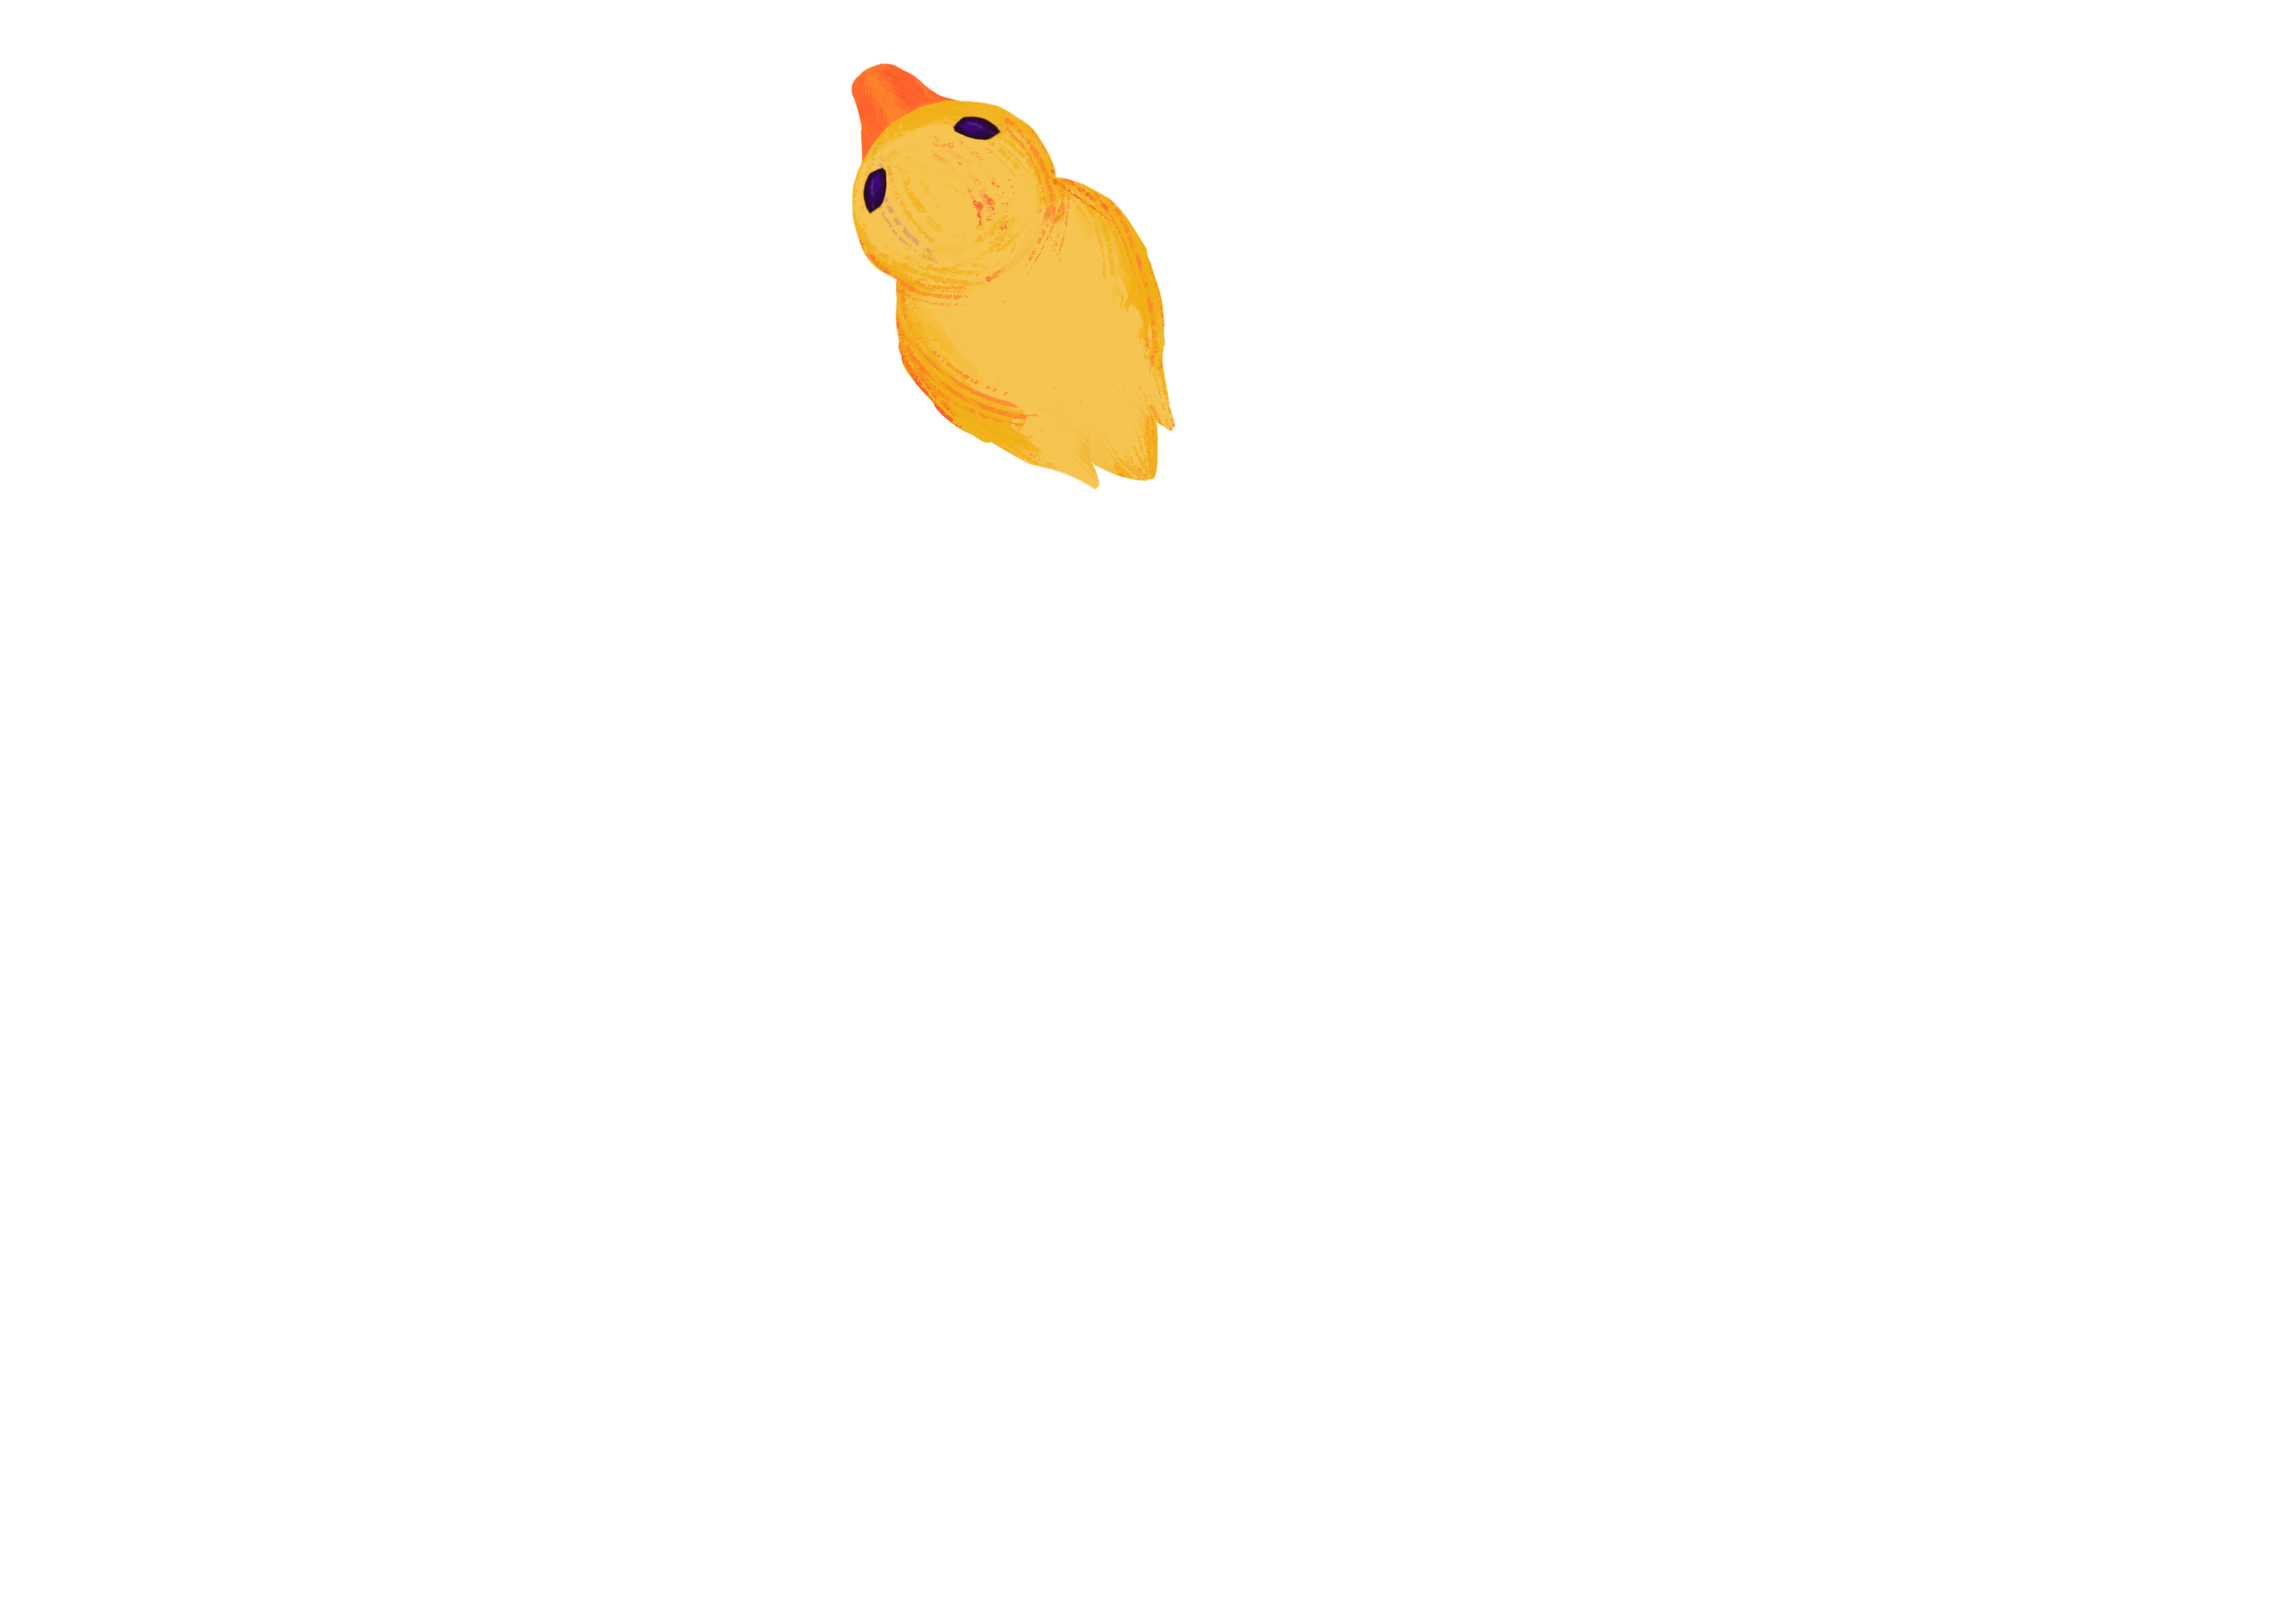
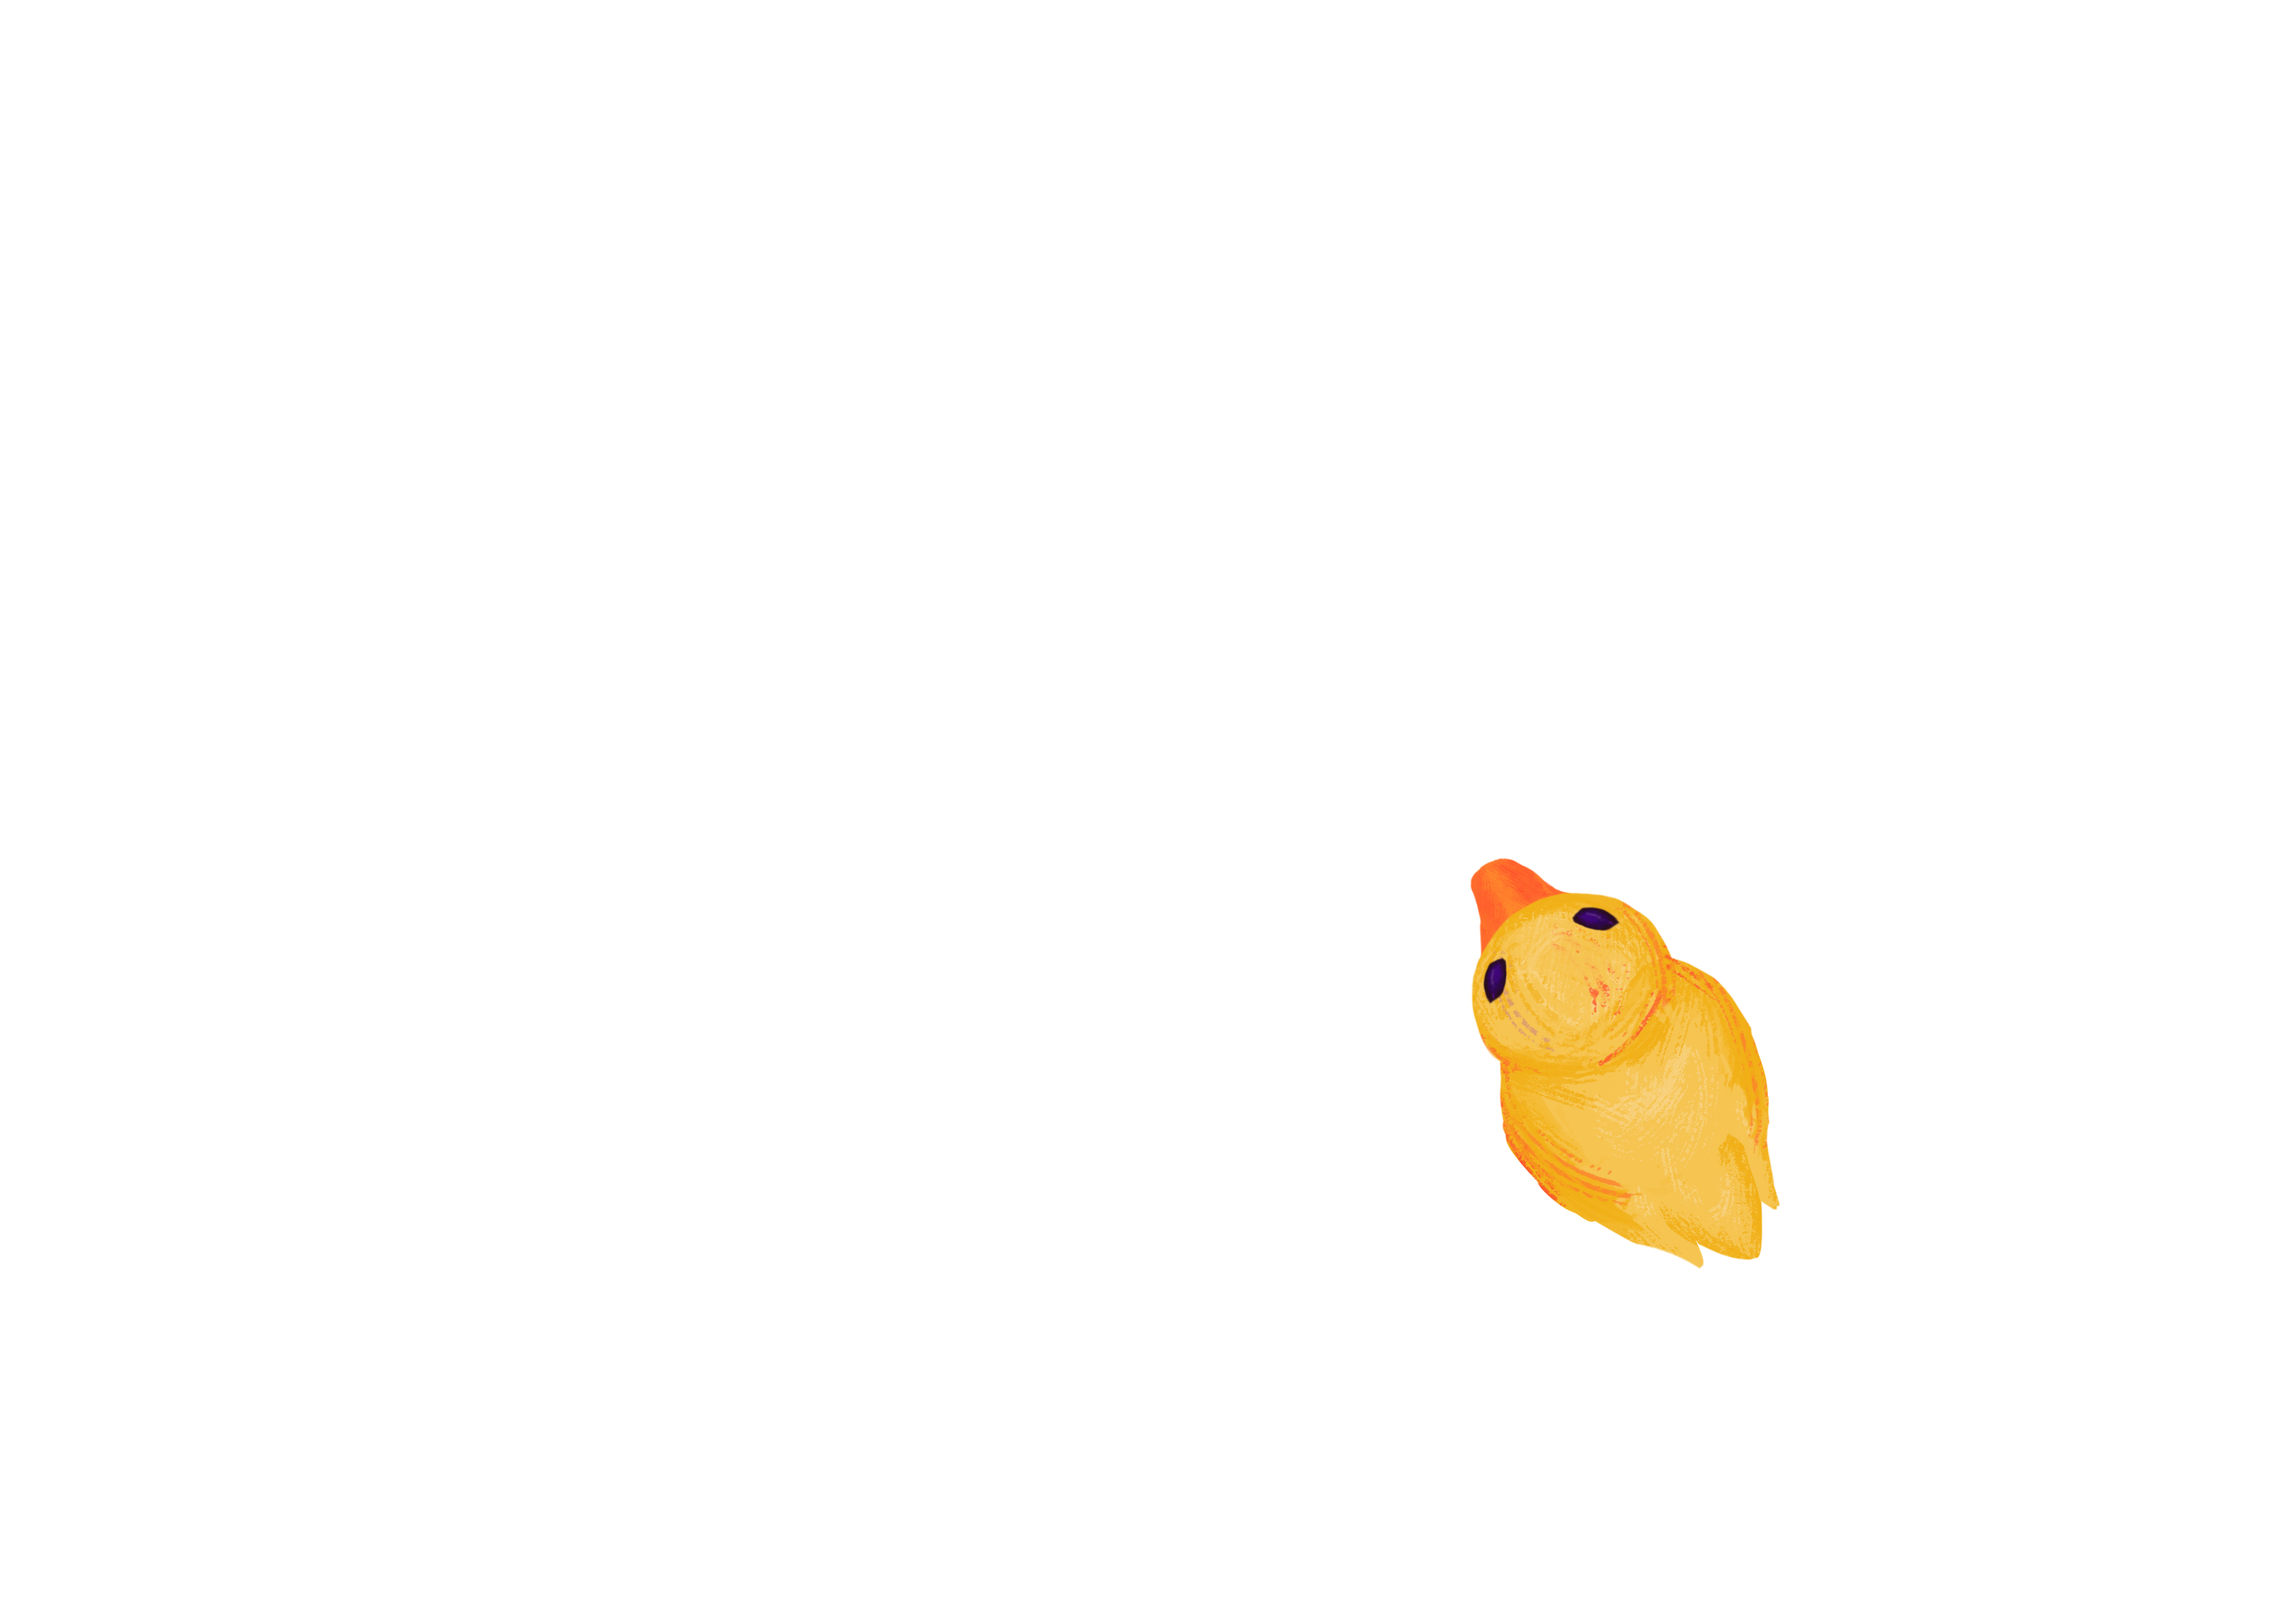
Integrate the artist's second art batch as a trial
Replace the blocker, +1, duck and car art, add portal pair 2, turn
switches into symbol buttons (heart, circle, star) with a pressed state,
and draw doors as jack-in-the-box. The asset build now centres objects
on their opaque body and drops stray low-alpha pixels. Kept on its own
branch until the look is play-checked.

Claude-Session: https://claude.ai/code/session_016ABh34yHWJyezQkcFHKvZi

Changed region(s): [[0.3737, 0.031, 0.5294, 0.3102], [0.6228, 0.5273, 0.7785, 0.7754]]

diff --git a/apps/web/src/game/renderer/tileArt.ts b/apps/web/src/game/renderer/tileArt.ts
@@ -37,7 +37,10 @@ const OBJECT_TEXTURES: Partial<Record<TileType, string>> = {
   door: 'obj_door',
 };
 const PASSAGE_WALL_TEXTURE = 'obj_passage_wall';
-/** Editor colours 1-3 map to the art's a (blue), b (pink), and c (green). */
+/**
+ * Editor colours 1-3 map to the art's a, b, and c. Since the second art batch (2026-11-07) the
+ * pieces are told apart by symbol, not colour: a heart, b circle, c star (switches and doors).
+ */
 const COLOR_SUFFIXES = ['a', 'b', 'c'];
 const SWITCH_BUTTON_LABEL = 'Switch Button';
 
@@ -53,14 +56,21 @@ const LAUNCHER_ART_HEADING_DEG = 237;
 const MOVER_ART_HEADING_DEG = 238;
 
 /**
- * Portal pairs: hue turns of the rainbow toy, so pair 1 keeps its red centre and pairs 2 and 3 get
- * a green and a blue one. Both ends of a pair look the same; pair ids above 3 repeat the cycle.
+ * Portal pairs: pairs 1 and 2 have their own drawings; pair 3 is pair 1 hue-turned (a blue centre)
+ * until it gets one. Both ends of a pair look the same; pair ids above 3 repeat the cycle.
  */
-const PORTAL_PAIR_HUES = [0, 120, 240];
+const PORTAL_PAIRS: { alias: string; hue: number }[] = [
+  { alias: 'obj_portal', hue: 0 },
+  { alias: 'obj_portal_2', hue: 0 },
+  { alias: 'obj_portal', hue: 240 },
+];
 
-/** Pressed switch, made in code: the button squashes into its base and darkens. */
-const SWITCH_PRESSED_SCALE_Y = 0.62;
-const SWITCH_PRESSED_SHADE = 0.7;
+/**
+ * Switch states are drawn (`_up` raised with a shadow, `_down` pressed). The press tween swaps the
+ * texture halfway and squashes the button a little around the swap.
+ */
+const SWITCH_PRESS_SQUASH = 0.12;
+const switchTextures = new WeakMap<Sprite, { up: string; down: string }>();
 
 /** Distance between a passage crayon and the tile edge, as a share of the tile's apothem. */
 const PASSAGE_WALL_INSET = 0.1;
@@ -137,9 +147,11 @@ function headingRotation(dir: Dir | undefined, artHeading: number): number {
 
 const portalFilters = new Map<number, ColorMatrixFilter>();
 
-function portalFilter(pair: number | undefined): ColorMatrixFilter | null {
-  const hue = PORTAL_PAIR_HUES[(Math.max(1, pair ?? 1) - 1) % PORTAL_PAIR_HUES.length];
+function portalPair(pair: number | undefined) {
+  return PORTAL_PAIRS[(Math.max(1, pair ?? 1) - 1) % PORTAL_PAIRS.length];
+}
 
+function portalFilter(hue: number): ColorMatrixFilter | null {
   if (hue === 0) {
     return null;
   }
@@ -159,10 +171,14 @@ function portalFilter(pair: number | undefined): ColorMatrixFilter | null {
 /** Sets how far a switch button is pressed in (0 up, 1 pressed); the press animation tweens it. */
 export function setSwitchPress(button: Sprite, amount: number) {
   const scale = artScale();
-  const shade = Math.round(255 * (1 - (1 - SWITCH_PRESSED_SHADE) * amount));
+  const textures = switchTextures.get(button);
 
-  button.scale.set(scale, scale * (1 - (1 - SWITCH_PRESSED_SCALE_Y) * amount));
-  button.tint = (shade << 16) | (shade << 8) | shade;
+  if (textures !== undefined) {
+    button.texture = Texture.from(amount >= 0.5 ? textures.down : textures.up);
+  }
+
+  // Squash peaks at the swap and is gone at rest (0 and 1); the tween's overshoot stretches slightly.
+  button.scale.set(scale, scale * (1 - SWITCH_PRESS_SQUASH * Math.sin(Math.PI * amount)));
 }
 
 /** The switch button of a tile base built by `createTileBase`, or null. */
@@ -193,17 +209,17 @@ function objectSprite(look: TileLook): Sprite | null {
       return sprite;
     }
     case 'portal': {
-      const sprite = artSprite(alias);
-      const filter = portalFilter(content.pair);
+      const pair = portalPair(content.pair);
+      const sprite = artSprite(pair.alias);
+      const filter = portalFilter(pair.hue);
       if (filter !== null) sprite.filters = [filter];
       return sprite;
     }
     case 'switch': {
-      // Anchored at the bottom so a press squashes the button down into its base.
-      const sprite = artSprite(`${alias}_${color}`);
+      const textures = { up: `${alias}_${color}_up`, down: `${alias}_${color}_down` };
+      const sprite = artSprite(textures.up);
       sprite.label = SWITCH_BUTTON_LABEL;
-      sprite.anchor.set(0.5, 1);
-      sprite.y = (sprite.texture.height * artScale()) / 2;
+      switchTextures.set(sprite, textures);
       setSwitchPress(sprite, look.switchPressed ? 1 : 0);
       return sprite;
     }

diff --git a/apps/web/src/game/tutorial.ts b/apps/web/src/game/tutorial.ts
@@ -40,7 +40,7 @@ export const HINT_TEXT: Readonly<Record<TutorialKind, string>> = {
   mover: 'Cars carry you once, then park as walls',
   swap: 'Marked tiles trade places with every move',
   portal: 'Portals send you to their twin',
-  switch: 'Switches open doors of the same color',
+  switch: 'Switches open boxes with the same symbol',
   passage: 'Passages only let you through open sides',
   refill: 'Refills set your steps to their number',
 };

diff --git a/docs/art.md b/docs/art.md
@@ -24,6 +24,10 @@
   fills its texture. Images that replace or stack on each other are cropped together with one
   shared box so they stay aligned: the `alignedSets` table in `build-assets.mjs` lists them (today
   `obj_door_*` and `obj_switch_*`). Floor, start, and finish are cropped to the solid hex body.
+- Objects (`images/objects`, since 2026-11-15) ignore pixels at alpha 40 or below when cropping
+  (drops stray strokes) and are cropped symmetrically around their body, the part above alpha
+  200, so a painted semi-transparent shadow does not pull the drawing off the cell centre. Door
+  sets centre on the closed state.
 - Board art (`images/tiles`, `images/objects`, table `BOARD_ART`) keeps the artist's relative
   scale: one factor comes from the floor (its hex width becomes 512 px @2x, about 0.515 for the A4
   pages) and applies to every page-sized drawing; start and finish are fitted to exactly the floor's
@@ -48,22 +52,24 @@
 
 ## Naming
 
-Aliases (the artist's first batch, 2026-10-11; Puzzle Lab vocabulary). Full tiles live in
-`art-source/images/tiles/`, things drawn on top of the floor in `art-source/images/objects/`.
-Colours: `a` blue, `b` pink, `c` green (editor colours 1, 2, 3).
+Aliases (the artist's first batch, 2026-10-11, and second batch, 2026-11-07, integrated on branch
+`art-batch-2` as a trial; Puzzle Lab vocabulary). Full tiles live in `art-source/images/tiles/`,
+things drawn on top of the floor in `art-source/images/objects/`. Editor colours 1, 2, 3 map to
+`a`, `b`, `c`; since the second batch switches and doors are told apart by symbol, not colour:
+`a` heart, `b` circle, `c` star (mapping chosen by the integrator).
 
 | Alias | Use | Delivered as |
 | --- | --- | --- |
 | `tile_floor` | Every floor cell; seeded 60° rotations give variety | `duztile.png` |
 | `tile_start`, `tile_finish` | Start and finish (full tiles) | `Baslangictile.png`, `bitistile.png` |
 | `tile_swamp` | Semi-transparent slime drawn over the floor | `Slimetile.png` |
-| `obj_blocker` | Wall: one kind only, on the floor | `Blocker.png` |
-| `obj_plus1` | +1 on the floor; removed when collected | `Artibir.png` |
+| `obj_blocker` | Wall: one kind only, on the floor (flat "A" block, painted shadow) | `Kutu.png` |
+| `obj_plus1` | +1 on the floor (blue); removed when collected | `Artibir.png` |
 | `obj_launcher` | Duck, rotated to the launcher's direction (drawn heading about 237°, NW) | `ordek.png` |
 | `obj_mover` | Car, rotated to the mover's direction (drawn heading about 238°, NW) | `Araba.png` |
-| `obj_portal` | Portal; pairs 2 and 3 are hue-shifted in code (0/120/240°) | `Portal.png` |
-| `obj_switch_<a\|b\|c>` | Switch; the pressed state is code (squashed to 62%, darker) | `Buton<mavi\|pembe\|yesil>.png` |
-| `obj_door_<a\|b\|c>_<closed\|open>` | Door states | `Kapi...` files |
+| `obj_portal`, `obj_portal_2` | Portal pairs 1 and 2; pair 3 is pair 1 hue-turned 240° in code | `Portal.png`, `Portal2.png` |
+| `obj_switch_<a\|b\|c>_<up\|down>` | Switch raised (painted shadow) and pressed; the press swaps the texture with a small squash | `Butonkapali<symbol>.png`, `Butonacik<symbol>.png` |
+| `obj_door_<a\|b\|c>_<closed\|open>` | Door as a jack-in-the-box: closed box with the symbol; open box with the jester (one drawing without a symbol, copied to all three) | `Jackkapali<symbol>.png`, `Jackacik.png` |
 | `obj_passage_wall` | Crayon along each passage side closed both ways | `Pastelengel.png` |
 | `larry` | Player character | `Larry.png` |
 | `background` | Full-screen background (jam art) | |
@@ -105,10 +111,12 @@ Delivery rules:
 - [x] Launcher (one duck, rotated in code to the 6 directions).
 - [x] Swamp (semi-transparent; drawn over the floor for now, the artist may revisit).
 - [x] Mover (one car, rotated in code to the 6 directions).
-- [ ] Portal: delivered once; pairs are hue-shifted in code for now. Real colourways per pair (up to
-  3 pairs in one level) would look better.
-- [ ] Switch, 3 colours: up states delivered; the pressed state is code for now (drawn would be better).
-- [x] Door, 3 colours, closed and open. (The blue one has low contrast on the purple floor.)
+- [ ] Portal: pairs 1 and 2 delivered (2026-11-07); pair 3 is still hue-shifted in code.
+- [x] Switch, 3 symbols, raised and pressed (2026-11-07).
+- [ ] Door as a jack-in-the-box, 3 symbols (2026-11-07). Open question: the trial uses the closed box
+  as the wall and the popped jester as open; the suggested reading is the reverse (a popped jester
+  reads as an obstacle), which needs the open state drawn once per symbol. The closed box also
+  looks close to the switch (both blue with a yellow symbol).
 - [ ] Passage: closed side delivered (crayon); one-way side still needs one arrow drawing (code arrow
   for now).
 - [ ] Refill: a plain base; the number (1-99) is drawn in code on top.

diff --git a/docs/progress.md b/docs/progress.md
@@ -21,7 +21,14 @@ Current state and work log. The plan is in `docs/roadmap.md`; read this file fir
 - **Next:** the user's play test of the v3 campaign and the cars; then roadmap step 3 (landscape and
   portrait layouts).
 
-## Recent work (2026-10-10 to 2026-10-16)
+## Recent work (2026-10-10 to 2026-11-15)
+
+- Second art batch (2026-11-15, branch `art-batch-2`, a trial for the user's look): the artist's
+  2026-11-07 batch replaces the blocker (flat "A" block), +1 (blue), duck, and car; adds portal pair
+  2; switches become symbol buttons (heart, circle, star) with a drawn pressed state; doors become
+  jack-in-the-box (closed box = wall for now; see the open question in `docs/art.md`). The asset
+  build now centres objects on their opaque body (painted shadows) and drops stray low-alpha pixels.
+  The switch tutorial line now says symbol instead of colour. 346 tests and typecheck pass.
 
 - v3 campaign (2026-10-16, branch `levels-v3`): the 60 v3 files replace the temporary campaign as
   exported (ids `level-01`-`level-60`, chapter order from `meta.slot`; byte-identical to the editor's
